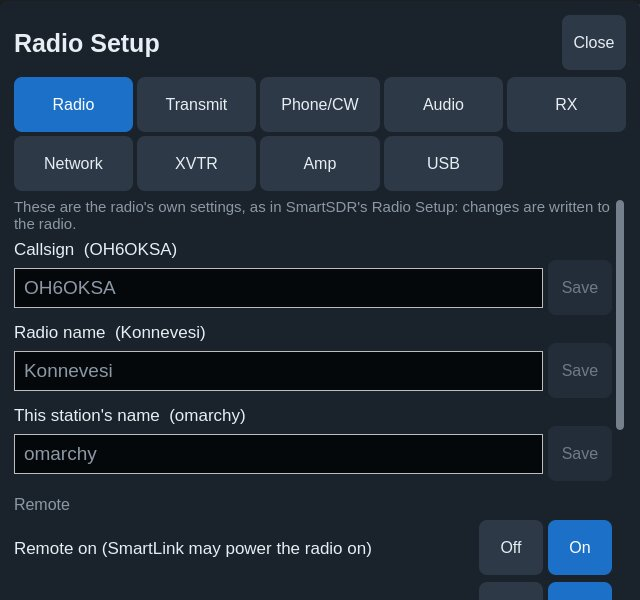
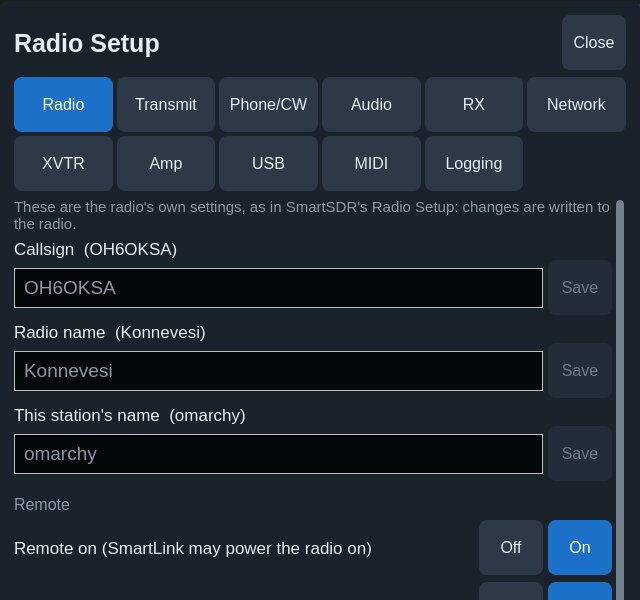
mobile: build 183 pictures: Setup with Logging, the Log tab, Setup › Logging (new)
The setup-logging shot types the manual's example logbook address over
the field (never saved: only its Save saves it).

Claude-Session: https://claude.ai/code/session_01KANojkzU64KoozGDbNDzRK

diff --git a/docs/mobile/MANUAL.md b/docs/mobile/MANUAL.md
@@ -2405,6 +2405,8 @@ radio.
   Cloudlog, the QRZ.com Logbook, the shared ADIF file, Logger32 and the
   logging program, as described under [Controls › Log](#8-controls)). The Log tab's
   **Logbooks…** opens this tab.
+
+  ![Setup › Logging](manual/setup-logging.jpg)
 - **MIDI** — not a setting of the radio: a MIDI controller as a VFO knob
   and buttons on this device, such as Lynovation's **CTR2-MIDI** (asked by
   Hanno Vogels DK3HV and Michael Walker). On an iPhone, iPad, Mac and,
